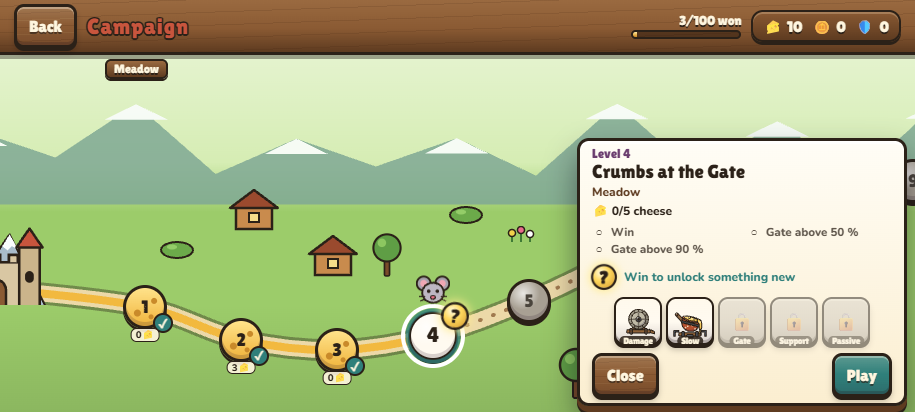
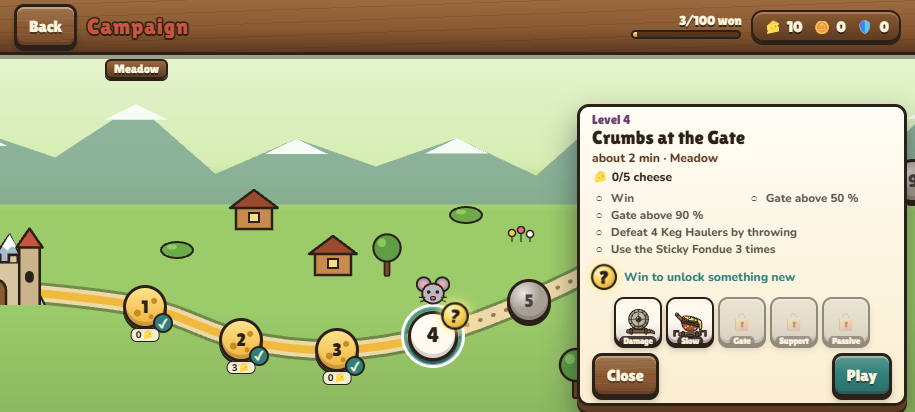
Test the campaign map, levels, cheese, kept gold and resuming in waves; sticky card buttons
campaign.spec.ts replaces the day and market steps with v0.3 behaviour: a level is won
when its last wave is beaten, cheese is paid once per bit, the gold of a lost level stays,
and an interrupted level continues at the start of its wave.

diff --git a/tests/e2e/campaign.spec.ts b/tests/e2e/campaign.spec.ts
@@ -1,47 +1,51 @@
 import { expect, test, type Page } from '@playwright/test';
-import { WORLD } from '../../src/config/field';
 import { DEFAULT_WORLD, levelOf } from '../../src/config/worlds';
 import { GUIDE } from '../../src/render/tutorialGuide';
 import {
-  IPHONE, LAPTOP, breakGate, endDay, gameState, openGame, pointer, spawn, station, tapMarket, tapStation, waitFor, waitForGame,
+  IPHONE, LAPTOP, breakGate, gameState, openGame, pointer, station, tapStation, waitFor, waitForGame,
   waitForLobby, waitPhase, waitScreen, GAME_WAIT,
 } from './helpers';
 
-/** The player's way: first start, tutorial, campaign map, levels won and lost, resuming, the profile. */
+/**
+ * The player's way in v0.3: first start, tutorial, the campaign map with its level card, levels won and
+ * lost (a level is one fight in waves, no market), cheese, gold that stays, resuming at the start of a
+ * wave, and the profile code.
+ */
 
 const stage = (page: Page) => page.evaluate(() => (window as any).__fondue.scene.tutorialStage() as string);
 const profile = (page: Page) => page.evaluate(() => {
   const a = (window as any).__fondue;
-  return { stars: a.profile.data.stars as number, done: a.profile.highestLevelDone(a.world) as number, tutorialDone: a.profile.data.tutorialDone as boolean };
+  const d = a.profile.data;
+  return { cheese: d.wallet.cheese as number, gold: d.wallet.gold as number, done: a.profile.highestLevelDone(a.world) as number, tutorialDone: d.seen.tutorial as boolean };
 });
 const LEVEL1 = levelOf(DEFAULT_WORLD, 1)!;
-const LEVEL2 = levelOf(DEFAULT_WORLD, 2)!;
 
-/** Wins every remaining day of the running level: each day ends at once, Next Day in between. */
-async function winLevel(page: Page) {
-  for (;;) {
-    const s = await waitPhase(page, ['battle', 'intermission', 'runWon']);
-    if (s!.phase === 'runWon') break;
-    if (s!.phase === 'battle') { await endDay(page); await waitPhase(page, ['intermission', 'runWon']); continue; }
-    await page.click('#ready');
-    await waitPhase(page, ['banner', 'battle']);
-  }
-  await waitScreen(page, 'won');
+/** Ends the running level as won: the last wave is reached and nobody is left on the road. */
+async function winRun(page: Page) {
+  await page.evaluate(() => {
+    const sim = (window as any).__fondue.session.sim;
+    const s = sim.s;
+    const last = (s.meta.rules?.lastWave ?? s.meta.wave?.lastWave ?? s.wave) as number;
+    s.wave = Math.max(s.wave, last);
+    s.spawnQueue = [];
+    s.spawned = 0;
+    s.enemies = [];
+    s.waveDone = false;
+    s.wavesFrozen = false;
+  });
 }
 
-test('first start on a phone: the tutorial teaches the throw, level 1 follows, its market and pot, and it is won', async ({ browser }) => {
+test('first start on a phone: the tutorial teaches the throw, level 1 follows and is won with cheese and gold', async ({ browser }) => {
   test.setTimeout(process.env.CI ? 600_000 : 240_000);
   // No ?menu: a new player lands in the prelude, not in a menu.
   const { context, page, errors } = await openGame(browser, IPHONE, '?seed=3');
   await waitFor(() => page.evaluate(() => (window as any).__fondue.session?.meta()?.rules.mode), (m) => m === 'tutorial', GAME_WAIT);
   expect(await page.evaluate(() => (window as any).__fondue.lobby.visible)).toBe(false);
   await waitFor(() => stage(page), (s) => s === 'intro', GAME_WAIT);
-  await page.screenshot({ path: 'mobile-screenshots/tutorial-intro.png' });
 
   // The King speaks, then the picture freezes on one raider and a hand shows the gesture.
   await waitFor(() => stage(page), (s) => s === 'show', GAME_WAIT * 2);
   expect(await page.evaluate(() => (window as any).__fondue.session.view().hold)).toBe(true);
-  await page.screenshot({ path: 'mobile-screenshots/tutorial-show.png' });
   const fieldW = await page.evaluate(() => (window as any).__fondue.session.sim.fieldW as number);
   const s = (await gameState(page))!;
   const target = s.enemies
@@ -51,76 +55,41 @@ test('first start on a phone: the tutorial teaches the throw, level 1 follows, i
   const p = await pointer(page, true);
   await p.down(target.x - 4, target.y - 44);
   await waitFor(() => stage(page), (st) => st === 'try', 5000);
-  // The grab lets the world run again; a quick flick upwards is the throw.
   await p.glide(target.x - 4, target.y - 44, target.x - 30, 80, 8, 12);
   await p.up();
   await waitFor(() => stage(page), (st) => st === 'praise', 8000);
-  await page.screenshot({ path: 'mobile-screenshots/tutorial-praise.png' });
 
-  // The rest of the prelude plays out; the gate cannot fall, and level 1 follows at once.
+  // The rest of the prelude plays out, and level 1 follows at once with the Rolling Wheel on the keep.
   await waitFor(() => stage(page), (st) => st !== 'praise', GAME_WAIT);
-  await endDay(page);
+  await winRun(page);
   const l1 = await waitFor(() => gameState(page), (v) => v?.mode === 'campaign', GAME_WAIT);
   expect(l1!.level).toBe(1);
   expect((await profile(page)).tutorialDone).toBe(true);
+  expect(await page.evaluate(() => (window as any).__fondue.profile.data.keep.loadout[0])).toBe('wheel');
 
-  // Day 1 of level 1, then its market: only the cauldron is for sale, and the first slot is still locked.
-  await waitPhase(page, 'battle');
-  await endDay(page);
-  await waitPhase(page, 'intermission');
-  await page.tap('#toShop');
-  await waitScreen(page, 'shop');
-  await expect(page.locator('#marketHint.level')).toBeVisible();
-  await tapMarket(page, 'slot:0', true);
-  await expect(page.locator('#marketWindow')).toHaveAttribute('data-slot', '0');
-  await expect(page.locator('#marketWindow')).toContainText('Win level 1 to build here');
-  await page.tap('button[data-a="closeWin"]');
-  await tapMarket(page, 'gate', true);
-  await expect(page.locator('#marketWindow button[data-buy="gate"]')).toBeDisabled();
-  await expect(page.locator('#marketWindow')).toContainText('Not sold in this level');
-  await page.tap('button[data-a="closeWin"]');
-  await page.evaluate(() => { (window as any).__fondue.session.sim.s.gold = 300; });
-  await tapMarket(page, 'station:cauldron', true);
-  await page.tap('#marketWindow button[data-buy="station:cauldron"]');
-  await waitFor(() => page.evaluate(() => (window as any).__fondue.session.meta().loadout.stations.cauldron as boolean), (b) => b, 5000);
-  await page.screenshot({ path: 'mobile-screenshots/level1-market.png' });
-  await page.tap('#ready');
-
-  // Day 2: the King points at the pot, and a raider carried there melts.
-  await waitPhase(page, 'battle');
-  await waitFor(() => stage(page), (st) => st === 'pot', GAME_WAIT);
-  await page.screenshot({ path: 'mobile-screenshots/level1-pot-hint.png' });
-  await page.evaluate(() => { const s = (window as any).__fondue.session.sim.s; s.spawnQueue = []; s.enemies = []; });
-  await spawn(page, 'grunt', 640);
-  const g = (await waitFor(() => gameState(page), (v) => v!.enemies.length === 1, 3000))!.enemies[0];
-  const hand = await pointer(page, true);
-  await hand.down(g.x, g.y - 44);
-  await waitFor(() => gameState(page), (v) => v!.enemies[0]?.st === 'held', 3000);
-  await hand.glide(g.x, g.y - 44, WORLD.cauldron.x, WORLD.cauldron.rimY - 30, 16, 25);
-  await hand.up(160);
-  await waitFor(() => gameState(page), (v) => v!.offerings >= 1, GAME_WAIT);
-
-  // The last day ends: the level is won, with its stars and what it unlocks.
-  await endDay(page);
+  // There is no market in a level: it is won when its last wave is beaten.
+  await waitPhase(page, ['banner', 'battle']);
+  await winRun(page);
   await waitScreen(page, 'won');
   await expect(page.locator('#wonLevel')).toHaveText(LEVEL1.name);
-  await expect(page.locator('#wonStars')).toContainText(String(LEVEL1.stars));
-  await expect(page.locator('#unlocks')).toContainText('Wall Foot');
-  await expect(page.locator('#unlocks')).toContainText('Rolling Wheel');
+  await expect(page.locator('#wonStars')).toContainText('+');
   await page.screenshot({ path: 'mobile-screenshots/level1-won.png' });
-  expect(await profile(page)).toEqual({ stars: LEVEL1.stars, done: 1, tutorialDone: true });
+  const after = await profile(page);
+  expect(after.done).toBe(1);
+  expect(after.cheese).toBeGreaterThanOrEqual(1);
   await page.tap('#continue');
 
-  // Back in the hall: the map has level 2 open and level 3 still locked.
+  // Back in the hall: the map has level 2 open and level 3 still locked; level 1 shows its cheese.
   await tapStation(page, 'campaign', true);
   await expect(page.locator('.cm-st[data-level="1"]')).toHaveClass(/done/);
+  await expect(page.locator('.cm-st[data-level="1"] .cm-got')).toContainText(String(after.cheese));
   await expect(page.locator('.cm-st[data-level="2"]')).toHaveAttribute('data-a', 'level');
   await expect(page.locator('.cm-st[data-level="3"]')).toHaveAttribute('data-a', 'lockedLevel');
   expect(errors).toEqual([]);
   await context.close();
 });
 
-test('campaign map: a level card, a lost level, try again, and back to the map', async ({ browser }) => {
+test('campaign map: a level card, a lost level keeps its gold, try again, and back to the map', async ({ browser }) => {
   const { context, page, errors } = await openGame(browser, LAPTOP);
   await station(page, 'campaign');
   await page.click('.cm-st[data-level="5"]');
@@ -129,16 +98,20 @@ test('campaign map: a level card, a lost level, try again, and back to the map',
   await page.click('#closeCard');
   await page.click('.cm-st[data-level="1"]');
   await expect(page.locator('#cardName')).toHaveText(LEVEL1.name);
+  await expect(page.locator('#cardStars')).toContainText('0/5 cheese');
   await page.screenshot({ path: 'mobile-screenshots/campaign-map.png' });
   await page.click('#playLevel');
-  const first = await waitPhase(page, 'battle');
+  const first = await waitPhase(page, ['banner', 'battle']);
   expect([first!.mode, first!.level]).toEqual(['campaign', 1]);
   const runId = await page.evaluate(() => (window as any).__fondue.session.meta().rules.runId);
+  await page.evaluate(() => { (window as any).__fondue.session.sim.s.stats.goldEarned = 77; });
   await breakGate(page);
   await waitScreen(page, 'gameover');
   await expect(page.locator('.panel h2')).toHaveText('Level 1 failed');
+  // The gold of a lost level stays (E-066).
+  await waitFor(() => profile(page), (pr) => pr.gold >= 77, 5000);
   await page.click('#restart');
-  await waitFor(() => gameState(page), (s) => s?.phase === 'battle' && s.day === 1 && s.gateHp === s.gateMax, GAME_WAIT);
+  await waitFor(() => gameState(page), (st) => (st?.phase === 'battle' || st?.phase === 'banner') && st.gateHp === st.gateMax, GAME_WAIT);
   expect(await page.evaluate(() => (window as any).__fondue.session.meta().rules.runId)).not.toBe(runId);
   expect((await gameState(page))!.level).toBe(1);
   await breakGate(page);
@@ -150,46 +123,57 @@ test('campaign map: a level card, a lost level, try again, and back to the map',
   await context.close();
 });
 
-test('a level won from the map pays its stars, unlocks what it holds and opens the next level', async ({ browser }) => {
+test('a level won from the map pays cheese once, unlocks what it holds and opens the next level', async ({ browser }) => {
   const { context, page, errors } = await openGame(browser, LAPTOP);
-  // A profile that has won level 1 already; reloading lets the game hand out what that unlocks.
-  await page.evaluate(() => { const a = (window as any).__fondue; a.profile.markLevelDone(a.world, 1); });
-  await page.evaluate(() => (window as any).__fondue.profile.flush());
+  await page.evaluate(() => { const a = (window as any).__fondue; a.profile.markLevelDone(a.world, 1); a.profile.flushSync(); });
   await page.reload();
   await waitForGame(page);
-  expect(await page.evaluate(() => (window as any).__fondue.profile.hasSlot(0))).toBe(true);
   await station(page, 'campaign');
   await page.click('.cm-st[data-level="2"]');
   await page.click('#playLevel');
   await waitPhase(page, ['banner', 'battle']);
   expect((await gameState(page))!.level).toBe(2);
-  await winLevel(page);
-  await expect(page.locator('#wonStars')).toContainText(String(LEVEL2.stars));
-  await expect(page.locator('#unlocks')).toContainText('New gate');
+  await winRun(page);
+  await waitScreen(page, 'won');
+  const won = await profile(page);
+  expect(won.cheese).toBeGreaterThanOrEqual(1);
   await page.click('#continue');
   await waitForLobby(page);
-  await expect(page.locator('#stars')).toHaveText(String(LEVEL2.stars));
+  await expect(page.locator('#stars')).toHaveText(String(won.cheese));
   await station(page, 'campaign');
   await expect(page.locator('.cm-st[data-level="2"]')).toHaveClass(/done/);
   await expect(page.locator('.cm-st[data-level="3"]')).toHaveAttribute('data-a', 'level');
   await page.click('.cm-st[data-level="2"]');
-  await expect(page.locator('#cardStars')).toContainText('won');
+  await expect(page.locator('#cardStars')).toContainText('replays pay gold');
   await expect(page.locator('#playLevel')).toHaveText('Play again');
+  // Winning again pays no cheese twice: only bits not set before count.
+  const maskOf = () => page.evaluate(() => { const a = (window as any).__fondue; return (a.profile.data.worlds[a.world].cheese['2'] ?? 0) as number; });
+  const bits = (m: number) => [0, 1, 2, 3, 4].filter((b) => m & (1 << b)).length;
+  const before = await maskOf();
+  expect(bits(before)).toBe(won.cheese);
+  await page.click('#playLevel');
+  await waitPhase(page, ['banner', 'battle']);
+  await winRun(page);
+  await waitScreen(page, 'won');
+  const again = await profile(page);
+  const after = await maskOf();
+  expect(after & before).toBe(before);
+  expect(again.cheese - won.cheese).toBe(bits(after) - bits(before));
   expect(errors).toEqual([]);
   await context.close();
 });
 
-test('an interrupted level continues at the start of its next day after the app was closed', async ({ browser }) => {
+test('an interrupted level continues at the start of its wave after the app was closed', async ({ browser }) => {
   const { context, page, errors } = await openGame(browser, LAPTOP);
   await station(page, 'campaign');
   await page.click('.cm-st[data-level="1"]');
   await page.click('#playLevel');
   await waitPhase(page, 'battle');
-  await page.evaluate(() => { (window as any).__fondue.session.sim.s.gold = 123; });
-  await endDay(page);
-  await waitPhase(page, 'intermission');
-  await page.evaluate(() => (window as any).__fondue.profile.flush());
-  // The app is closed in the market and opened again.
+  // Into the second wave: the start of a wave is saved.
+  await waitFor(() => page.evaluate(() => (window as any).__fondue.session.sim.s.wave as number), (w) => w >= 1, GAME_WAIT);
+  await page.evaluate(() => (window as any).__fondue.profile.flushSync());
+  const pending = await page.evaluate(() => (window as any).__fondue.pendingRun());
+  expect(pending, 'the level is saved at the start of its wave').toBeTruthy();
   await page.reload();
   await waitForGame(page);
   await waitForLobby(page);
@@ -198,14 +182,20 @@ test('an interrupted level continues at the start of its next day after the app 
   await page.screenshot({ path: 'mobile-screenshots/lobby-continue.png' });
   await tapStation(page, 'continueLevel', false);
   const s = await waitPhase(page, ['banner', 'battle']);
-  expect([s!.mode, s!.level, s!.day, s!.gold]).toEqual(['campaign', 1, 2, 123]);
+  expect([s!.mode, s!.level]).toEqual(['campaign', 1]);
+  expect(await page.evaluate(() => (window as any).__fondue.session.sim.s.wave as number)).toBe(pending.start.wave);
   expect(errors).toEqual([]);
   await context.close();
 });
 
 test('profile: the code from Options loads on another device; a broken code changes nothing', async ({ browser }) => {
   const a = await openGame(browser, LAPTOP);
-  await a.page.evaluate(() => { const f = (window as any).__fondue; f.profile.addStars(37); f.profile.setName('Lenny'); f.profile.markLevelDone(f.world, 1); });
+  await a.page.evaluate(() => {
+    const f = (window as any).__fondue;
+    f.profile.edit((d: any) => { d.wallet.cheese = 37; d.wallet.gold = 1234; });
+    f.profile.setName('Lenny');
+    f.profile.markLevelDone(f.world, 1);
+  });
   await station(a.page, 'options');
   const code = await a.page.locator('#profileCode').inputValue();
   expect(code.length).toBeGreaterThan(20);
@@ -216,13 +206,14 @@ test('profile: the code from Options loads on another device; a broken code chan
   await b.page.locator('#profileImport').fill('this is no profile');
   await b.page.tap('button[data-a="importProfile"]');
   await expect(b.page.locator('#profileError')).toContainText('broken');
-  expect((await profile(b.page)).stars).toBe(0);
+  expect((await profile(b.page)).cheese).toBe(0);
   await b.page.locator('#profileImport').fill(code);
   await b.page.tap('button[data-a="importProfile"]');
-  await waitFor(() => profile(b.page), (p) => p.stars === 37, 5000);
+  await waitFor(() => profile(b.page), (p) => p.cheese === 37, 5000);
+  expect((await profile(b.page)).gold).toBe(1234);
   expect((await profile(b.page)).done).toBe(1);
   await expect(b.page.locator('#name')).toHaveValue('Lenny');
-  expect(await b.page.evaluate(() => (window as any).__fondue.profile.hasSlot(0))).toBe(true);
+  expect(await b.page.evaluate(() => (window as any).__fondue.profile.data.keep.loadout[0])).toBe('wheel');
   expect(b.errors).toEqual([]);
   await b.context.close();
 });

diff --git a/src/ui/screens/campaign.ts b/src/ui/screens/campaign.ts
@@ -77,7 +77,7 @@ function cardHtml(ctx: ScreenContext, id: number): string {
   const cheeseList = `<ul class="cm-card-cheese" id="cardCheese">
       ${pip(b.win, 'Win')}${pip(b.gateHalf, `Gate above ${Math.round(CHEESE.gateHalf * 100)} %`)}${pip(b.gateHigh, `Gate above ${Math.round(CHEESE.gateHigh * 100)} %`)}
       ${ch[0] ? pip(b.challenge1, ch[0]) : ''}${ch[1] ? pip(b.challenge2, ch[1]) : ''}</ul>`;
-  const stars = `<span class="cm-cheese-ico" aria-hidden="true">🧀</span> <b id="cardGot">${got}</b>/${CHEESE.perLevel} cheese${done ? ' · replays pay gold' : ''}`;
+  const cheeseLine = `<span class="cm-cheese-ico" aria-hidden="true">🧀</span> <b id="cardGot">${got}</b>/${CHEESE.perLevel} cheese${done ? ' · replays pay gold' : ''}`;
   const unlocks = unlocksOfLevel(ctx.world, id);
   let unlockLine = '';
   if (unlocks.length > 0) {
@@ -90,7 +90,7 @@ function cardHtml(ctx: ScreenContext, id: number): string {
   return `<div class="cm-card-title"><span class="cm-card-num">Level ${id}</span> <span class="cm-card-name" id="cardName">${esc(l.name)}</span></div>
     <div class="cm-card-facts" id="cardFacts">${facts}</div>
     ${l.boss ? `<div class="cm-card-boss" id="cardBoss">Boss: ${esc(l.boss.name)}</div>` : ''}
-    <div class="cm-card-stars" id="cardStars">${stars}</div>
+    <div class="cm-card-stars" id="cardStars">${cheeseLine}</div>
     ${cheeseList}
     ${unlockLine}${lock}
     ${open ? loadoutHtml(ctx) : ''}

diff --git a/src/ui/screens/main.ts b/src/ui/screens/main.ts
@@ -14,10 +14,10 @@ import type { Screen } from './screen';
 /** Why endless is still closed, for the menu and the lobby. */
 export const ENDLESS_LOCKED = 'Endless opens with your fifth slot. Keep winning campaign levels!';
 
-/** The wave an interrupted level continues at (older saves knew only days). */
+/** The wave an interrupted level continues at. */
 export function pendingWave(p: PendingRun): number {
-  const s = p.start as unknown as { wave?: unknown; day?: unknown };
-  return typeof s.wave === 'number' ? s.wave : typeof s.day === 'number' ? s.day : 1;
+  const s = p.start as unknown as { wave?: unknown };
+  return typeof s.wave === 'number' ? s.wave : 1;
 }
 
 export const mainScreen: Screen = {

diff --git a/src/ui/style.css b/src/ui/style.css
@@ -922,6 +922,8 @@ ul.cm-card-cheese li:nth-child(n + 4) { grid-column: 1 / -1; }
 }
 .cm-got.full { background: var(--mustard); }
 .cm-head .wallet { font-size: 20px; min-height: 40px; }
+/* Close and Play stay in reach even when a long card scrolls. */
+.cm-card .row.navrow { position: sticky; bottom: -12px; padding-bottom: 4px; background: var(--parchment); z-index: 1; }
 
 @media (prefers-reduced-motion: reduce) { .sh-spot { animation: none; } }
 
